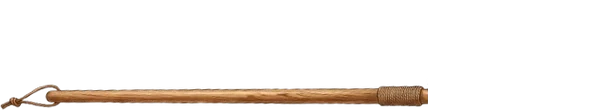
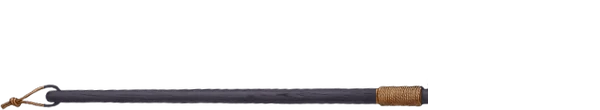
Under the Blanket: the feather toy's handle in black, like a bendy wand
The stick keeps its light and shade in a near-black with the ink's lean; the cord
binding and the loop stay as drawn.

Claude-Session: https://claude.ai/code/session_0122u3nj1dAeLhdmJMfvNXeA

Changed region(s): [[0.06, 0.7636, 0.63, 0.9818], [0.69, 0.7909, 0.72, 0.9545]]

diff --git a/blanket/index.html b/blanket/index.html
@@ -297,7 +297,7 @@ function plumeFilter(id, c) {
   ["feFuncR", "feFuncG", "feFuncB"].forEach((fn, ch) => el(fn, {type: "table", tableValues: stops.map(s => s[ch].toFixed(3)).join(" ")}, t));
   return f;
 }
-// The feather toy at x, y, w × h: the wooden stick as it is, the feathers coloured.
+// The feather toy at x, y, w × h: the black stick (and its cord binding) as it is, the feathers coloured.
 function toyPic(g, x, y, w, h) {
   el("image", {href: pic("feather-stick"), x, y, width: w, height: h}, g);
   el("image", {href: pic("feather-plume"), x, y, width: w, height: h, filter: "url(#plumeTint)"}, g);

diff --git a/ARTWORK.md b/ARTWORK.md
@@ -121,8 +121,8 @@ each `skein-N` is the strands in ink and `skein-N-shape` its outline, which the 
   Fish Bones: `bowtie-5` peeks up beside the title, and `bowtie-1` lies on his back, full of fish, on the gold-paw card. Bugsy is the star of
   Under the Blanket: `bugsy-5` peeks beside the title, `bugsy-7` (curled up asleep) is one of the cats found under the blanket
   (the others are Sunbeams' napping cats, the `NAPPERS` list, which also nap in its walkthrough), and `bugsy-3` stretches out
-  on the gold-paw card. Its feather toy (a wooden stick with a binding and two speckled feathers) is the owner's picture, levelled, trimmed and
-  cut in two: `blanket/feather-stick.webp`, the stick as drawn, and `blanket/feather-plume.webp`, the feathers in grey, which
+  on the gold-paw card. Its feather toy (a stick with a cord binding and two speckled feathers) is the owner's picture, levelled, trimmed and
+  cut in two: `blanket/feather-stick.webp`, the stick made black (as a bendy wand's is, at the owner's ask; the binding and loop as drawn), and `blanket/feather-plume.webp`, the feathers in grey, which
   the page colours (a palette colour that stands out from each blanket); `blanket/feather-head.webp` is the grey feather end,
   for the status line.
   Not used yet: `bowtie-4` (lying down with a string, cut off at the right), `bowtie-8` (his face, close up) and
